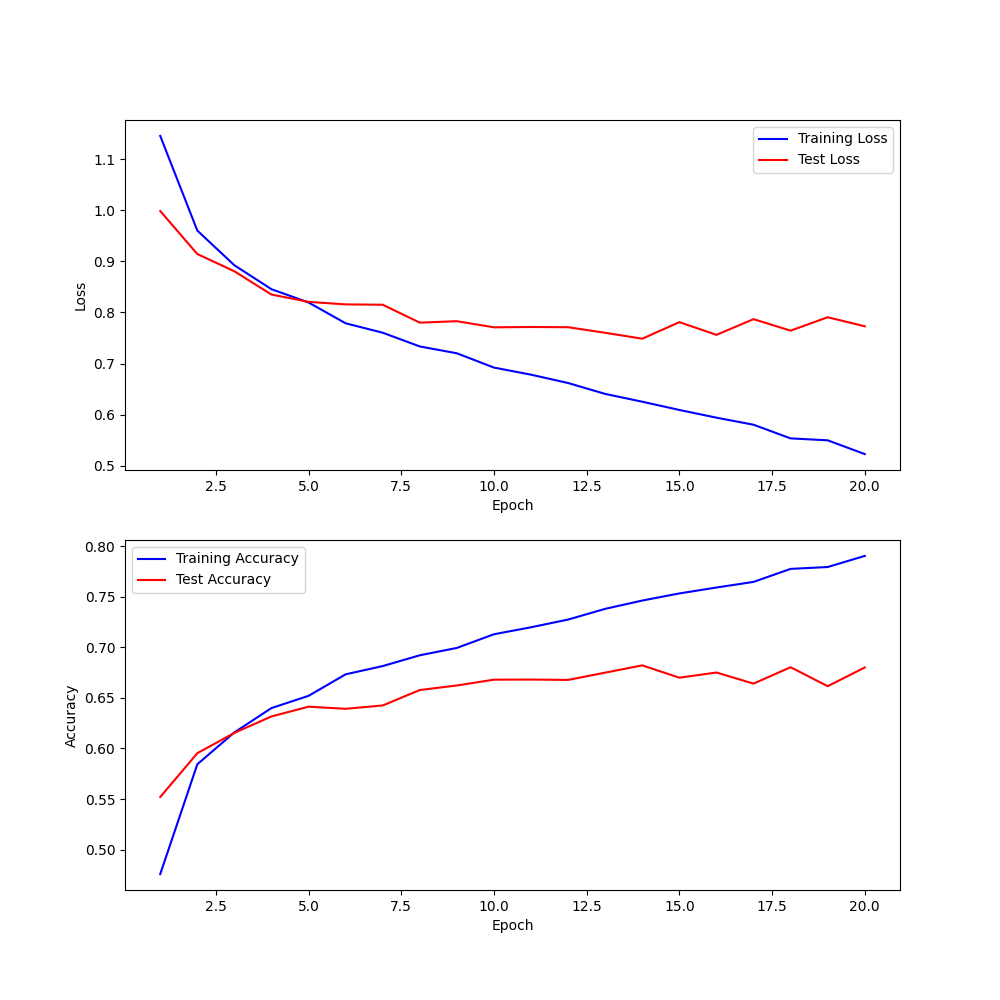
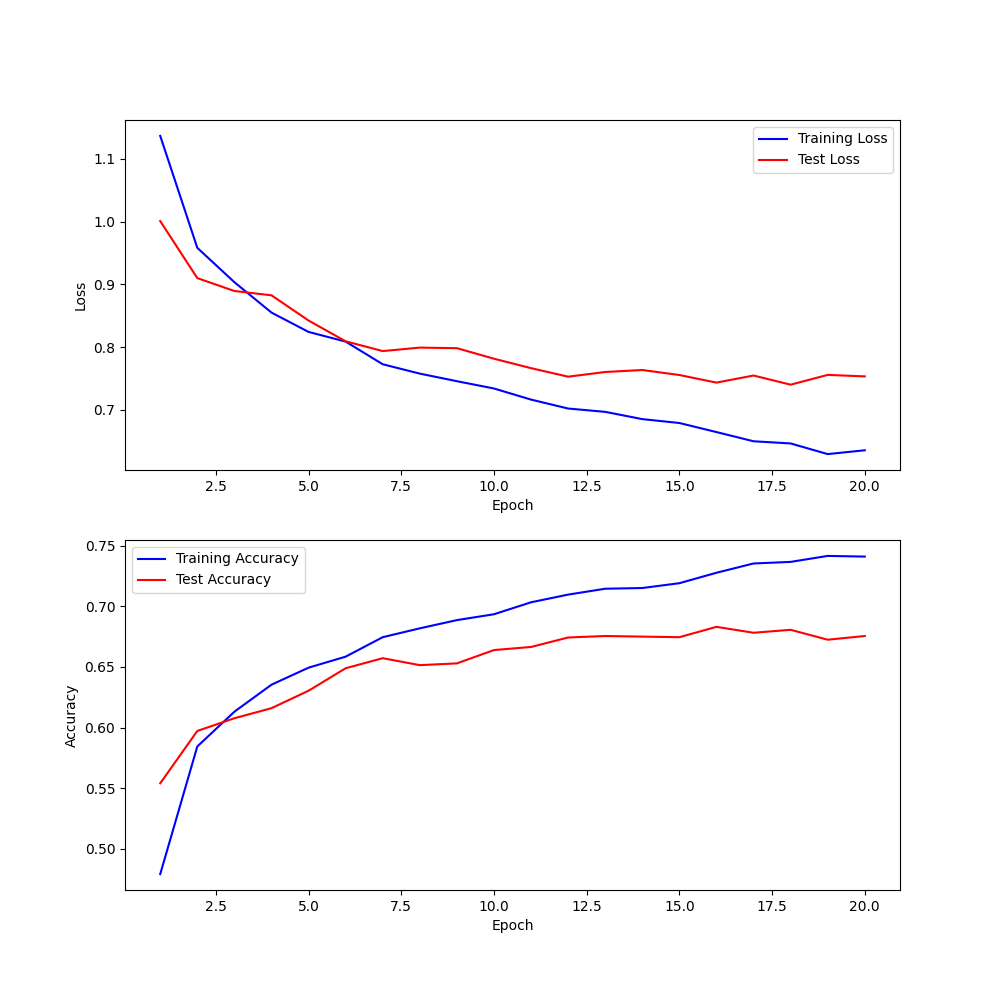
gm - VGG16 impelmentation outline

diff --git a/VGG16/VGG16TL.py b/VGG16/VGG16TL.py
@@ -1,6 +1,6 @@
 """
-AlexNetTL.py
-Transfer learning using AlexNet to predict facial emotions. 
+VGG16TL.py
+Transfer learning using VGG16 to predict facial emotions. 
 Utilizes Metal Performance Shaders for quick training/validation on Apple Silicon
 Author: Gautam Mundewadi
 """
@@ -11,8 +11,8 @@ import torch
 import torch.nn as nn
 import torch.optim as optim
 from torch.optim import lr_scheduler
-from torchvision import datasets, transforms
-from torchvision.models import AlexNet_Weights
+from torchvision import datasets, models, transforms
+from torchvision.models import VGG16_Weights
 
 # Check that MPS is available
 if not torch.backends.mps.is_available():
@@ -24,10 +24,12 @@ if not torch.backends.mps.is_available():
               "and/or you do not have an MPS-enabled device on this machine.")
             
 train_transform = transforms.Compose([
-    transforms.Resize(256),
-    transforms.RandomHorizontalFlip(p = .5),
-    transforms.FiveCrop(224),
-    transforms.Lambda(lambda crops: torch.stack([transforms.ToTensor()(crop) for crop in crops])),
+        transforms.Resize((224, 224)),
+        transforms.RandomHorizontalFlip(),
+        transforms.ColorJitter(brightness=0.2, contrast=0.2, saturation=0.1, hue=0.1),
+        transforms.RandomAffine(degrees=40, translate=None, scale=(1, 2), shear=15),
+        transforms.ToTensor(),
+        transforms.Normalize((0.485, 0.456, 0.406), (0.229, 0.224, 0.225))
 ])
 
 test_transform = transforms.Compose([
@@ -50,23 +52,23 @@ test_dataset_size = len(testloader)
 
 mps_device = torch.device('mps')
 
-AlexNet_model = torch.hub.load('pytorch/vision:v0.6.0', 'alexnet') # No pretrained weights
-AlexNet_model.eval()
+VGG16_model = models.vgg16(weights = VGG16_Weights.DEFAULT)
+VGG16_model.eval()
 
 #Updating the third and the last classifier that is the output layer of the network. Make sure to have 4 output nodes if we are going to get 4 class labels through our model.
-AlexNet_model.classifier[6] = nn.Linear(4096,4)
-AlexNet_model.to(mps_device)
+VGG16_model.classifier[6] = nn.Linear(4096,4)
+VGG16_model.to(mps_device)
 
 # Loss
 criterion = nn.CrossEntropyLoss()
 
 # Optimizer(SGD)
-optimizer = optim.SGD(AlexNet_model.parameters(), lr=0.001, momentum=0.9)
+optimizer = optim.SGD(VGG16_model.parameters(), lr=0.001, momentum=0.9)
 
 # learning rate decreases step-wise by a factor of .1 ~every 10K iterations
 exp_lr_scheduler = lr_scheduler.StepLR(optimizer, step_size=3, gamma=0.1)
 
-nepochs = 50 
+nepochs = 20 #TODO: run for 20 epochs
 
 epochs = list(range(1, nepochs+1))
 train_loss_trend, train_acc_trend, test_loss_trend, test_acc_trend = [], [], [], []
@@ -76,11 +78,10 @@ for epoch in range(nepochs):
     running_loss = 0.0
     running_accuracy = 0.0
 
+    # TODO: implement this stochastically
     for i, data in enumerate(trainloader, 0):
         # load input and labels into gpu
         inputs, labels = data[0], data[1]
-        bs, ncrops, c, h, w = inputs.size()
-        inputs = inputs.view(-1, c, h, w) # fuse batch size and ncrops
 
         inputs = inputs.to(mps_device)
         labels = labels.to(mps_device)
@@ -89,18 +90,17 @@ for epoch in range(nepochs):
         optimizer.zero_grad()
 
         # make predictions & calc accuracy
-        outputs = AlexNet_model(inputs)
-        outputs_avg = outputs.view(bs, ncrops, -1).mean(1) # avg over crops
-
-        _, preds = torch.max(outputs_avg, 1)
+        outputs = VGG16_model(inputs)
+        _, preds = torch.max(outputs, 1)
         running_accuracy += float(torch.sum(preds == labels)) / batchSize 
 
         # forward + backward + optimize
-        loss = criterion(outputs_avg, labels)
+        loss = criterion(outputs, labels)
         loss.backward()
         optimizer.step()
 
         running_loss += loss.item()
+        print(f'{i} / {len(trainloader)}')
 
     train_loss_this_epoch = running_loss / train_dataset_size
     train_acc_this_epoch = running_accuracy / train_dataset_size
@@ -118,7 +118,7 @@ for epoch in range(nepochs):
         labels = labels.to(mps_device)
 
         # make predictions & calc accuracy 
-        outputs = AlexNet_model(inputs)
+        outputs = VGG16_model(inputs)
         _, preds = torch.max(outputs, 1)
         running_accuracy += float(torch.sum(preds == labels)) / batchSize
 
@@ -135,6 +135,7 @@ for epoch in range(nepochs):
     print(f'Epoch {epoch + 1} Training Loss: {train_loss_this_epoch:.4f} Training Acc: {train_acc_this_epoch:.4f} Test Loss: {test_loss_this_epoch:.4f} Test Acc: {test_acc_this_epoch:.4f}')\
     
 
+
 f,ax=plt.subplots(2,1,figsize=(10,10)) 
 
 #Assigning the first subplot to graph training loss and test loss
@@ -149,7 +150,7 @@ ax[1].plot(epochs,test_acc_trend,color='r',label='Test Accuracy')
 ax[1].set(xlabel='Epoch', ylabel = 'Accuracy')
 ax[1].legend()
 
-plt.savefig('../graphs/AlexNet_Scratch_50epochs.png')
-torch.save(AlexNet_model, '../models/AlexNet_Scratch_50epochs')
+plt.savefig('../graphs/VGG16_TL.png')
+torch.save(VGG16_model, '../models/VGG16_TL')
 
 print('Accuracy Score = ', np.max(test_acc_trend))

diff --git a/Interface/Start.py b/Interface/Start.py
@@ -1,12 +1,13 @@
 '''
 Start.py
 Open webcam to input into facial emotions classifier
-Author: https://github.com/arunponnusamy/cvlib/blob/master/examples/face_detection_webcam.py
+Edited by: Gautam Mundewadi
+Source: https://github.com/arunponnusamy/cvlib/blob/master/examples/face_detection_webcam.py
 '''
 import cvlib as cv
 import cv2
 import torch
-
+import numpy as np
 
 # Check that MPS is available
 if not torch.backends.mps.is_available():
@@ -28,7 +29,7 @@ if not webcam.isOpened():
     exit()
 
 mps_device = torch.device('mps')
-model = torch.load('../models/AlexNet_Scratch_dataAugment')
+model = torch.load('../models/AlexNet_TL_dataAugment')
 model.eval()
 model = model.to(mps_device)
 
@@ -51,16 +52,26 @@ while webcam.isOpened():
         (startX, startY) = f[0], f[1]
         (endX, endY) = f[2], f[3]
 
+        l = max(endX - startX, endY - startY)
+
+        leftAdjust = 40
+
+        cropped_face = frame[startY:startY + l,startX - leftAdjust : startX + l-leftAdjust]
+        
         # crop and resize image of face
-        img = cv2.resize(frame[startY:endY,startX:endX], (224, 224), interpolation = cv2.INTER_AREA)
+        img = cv2.resize(cropped_face, (224, 224), interpolation=cv2.INTER_AREA)
+
+        cv2.imwrite('./live_img.png', img)
+
+        #TODO: figure out cropping (maybe get a larger image and crop that down)
 
         # make prediction
         input = torch.tensor(img).view(-1, 3, 224, 224).float()
         input = input.to(mps_device)
 
         output = model(input)
+        print(output)
         _, preds = torch.max(output, 1)
-        print(preds)
 
         # draw rectangle over face
         cv2.rectangle(frame, (startX,startY), (endX,endY), (0,255,0), 2)
@@ -68,7 +79,7 @@ while webcam.isOpened():
 
         Y = startY - 10 if startY - 10 > 10 else startY + 10
 
-        # write confidence percentage on top of face rectangle
+        # write emotion on top of face rectangle
         cv2.putText(frame, text, (startX,Y), cv2.FONT_HERSHEY_SIMPLEX, 0.7,
                     (0,255,0), 3)
 
